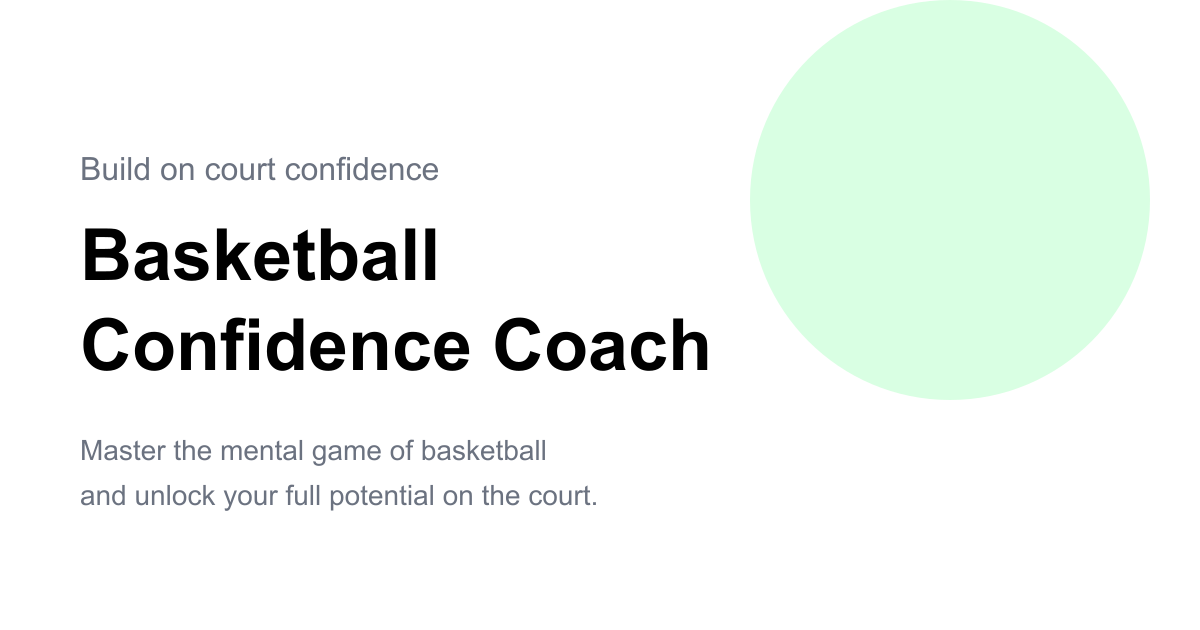
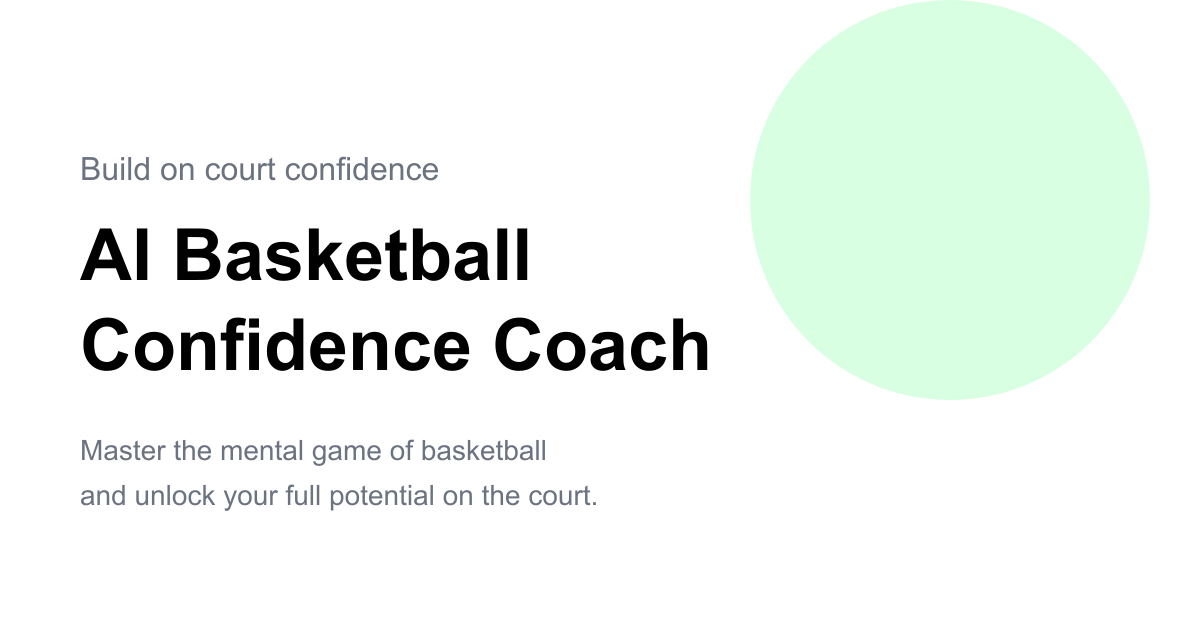
Remove AI from link title and fix green color
Changed link preview title from "AI Confidence Coach" to "Basketball Confidence Coach" while keeping the OG image showing "AI Basketball Confidence Coach". Updated green circle to use correct brand color #00ff41.

🤖 Generated with [Claude Code](https://claude.com/claude-code)

Changed region(s): [[0.0617, 0.3619, 0.4625, 0.4524]]

diff --git a/app/waitlist/layout.tsx b/app/waitlist/layout.tsx
@@ -1,17 +1,17 @@
 import type { Metadata } from "next";
 
 export const metadata: Metadata = {
-  title: "AI Confidence Coach - Join Waitlist",
+  title: "Basketball Confidence Coach - Join Waitlist",
   description: "Master the mental game of basketball and unlock your full potential on the court.",
   icons: {
     icon: '/icon.svg',
     apple: '/apple-touch-icon.png',
   },
   openGraph: {
-    title: "AI Confidence Coach - Join Waitlist",
+    title: "Basketball Confidence Coach - Join Waitlist",
     description: "Master the mental game of basketball and unlock your full potential on the court.",
     url: "https://www.mycheatcode.ai/waitlist",
-    siteName: "AI Confidence Coach - Join Waitlist",
+    siteName: "Basketball Confidence Coach - Join Waitlist",
     type: "website",
     images: [
       {
@@ -24,7 +24,7 @@ export const metadata: Metadata = {
   },
   twitter: {
     card: "summary_large_image",
-    title: "AI Confidence Coach - Join Waitlist",
+    title: "Basketball Confidence Coach - Join Waitlist",
     description: "Master the mental game of basketball and unlock your full potential on the court.",
     images: ['https://www.mycheatcode.ai/og-image.png'],
   },
